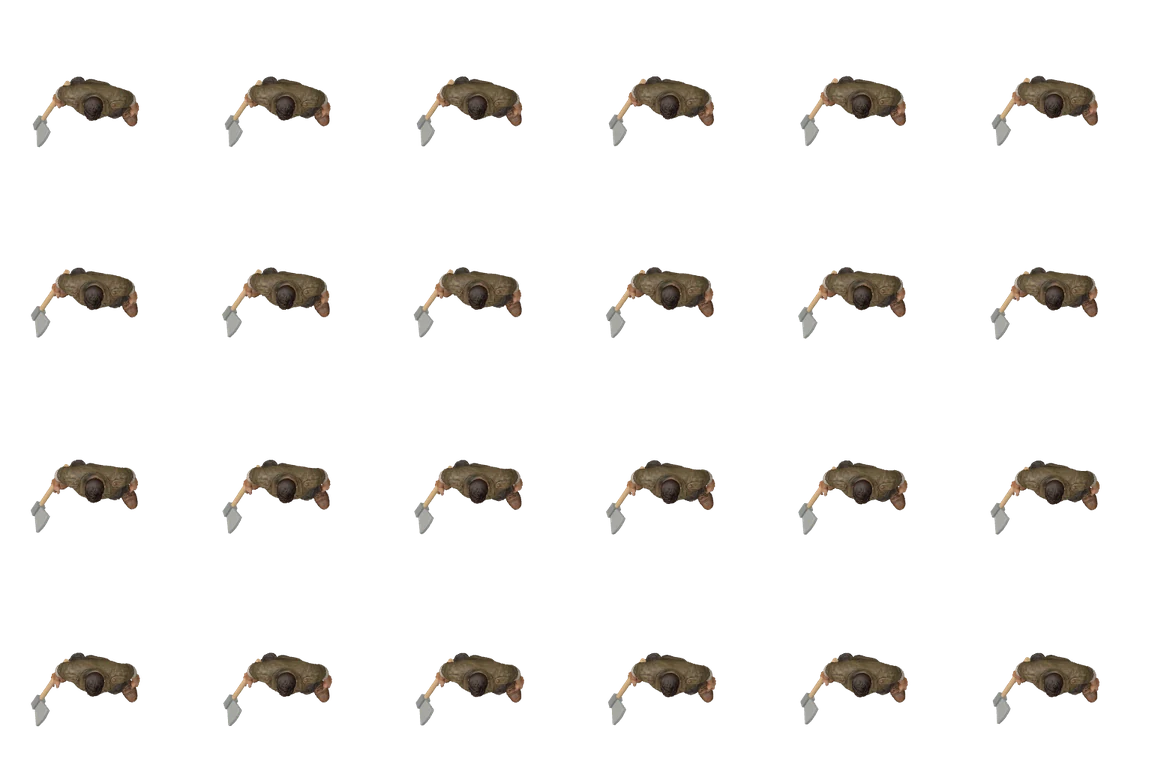
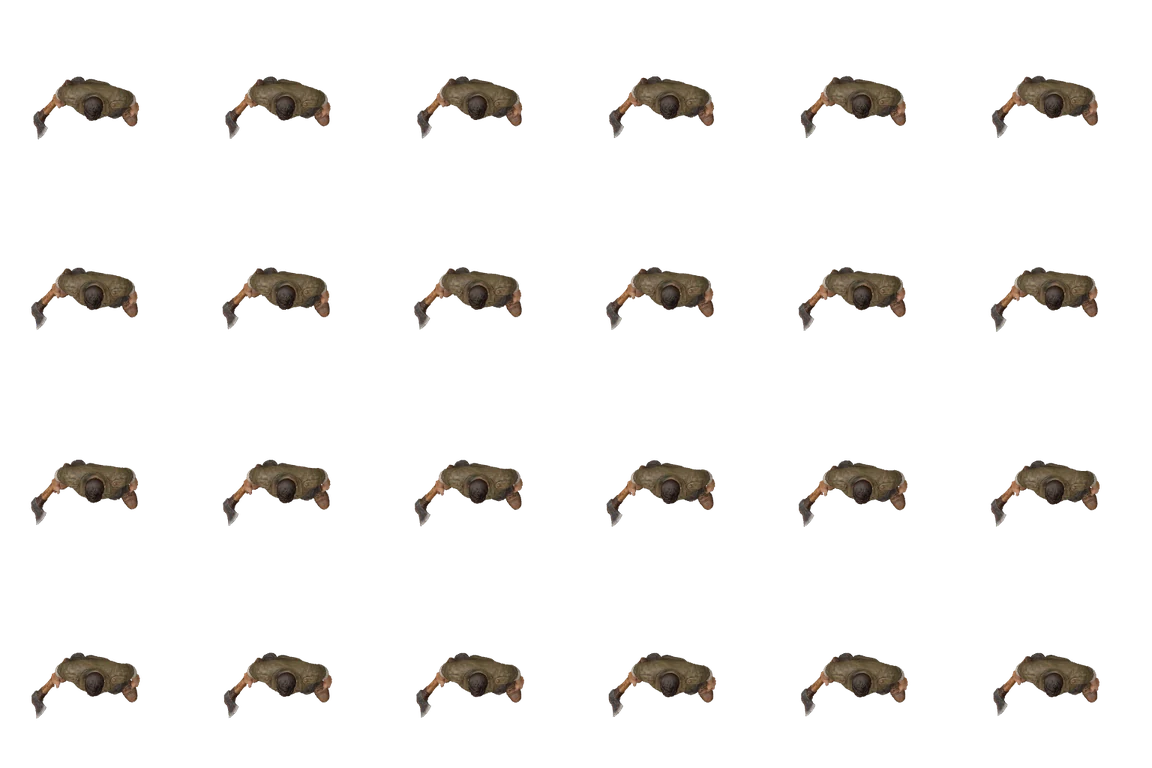
LAST_BASE_0_40_3_new_character_v2

diff --git a/ЧТО_ИЗМЕНЕНО.md b/ЧТО_ИЗМЕНЕНО.md
@@ -9,7 +9,7 @@
 - Топор, кирка, кувалда в руке: персонаж стоит/идёт/бежит с инструментом в правой руке.
 - Работа (рубка, добыча камня, ремонт кувалдой): новый удар двумя руками. Момент касания
   подогнан под момент, когда игра засчитывает удар и играет звук.
-- Инструменты пока временные (простые формы); их заменят модели из Tripo.
+- Топор и молот — модели из Tripo (топор ~70 см, молот ~80 см). Кирка пока временная.
 - Автомат, фонарик, пульт, удочка: пока старый персонаж — до анимаций с автоматом.
 - Бронежилет пока не рисуется поверх нового персонажа (защита работает как раньше).
 
